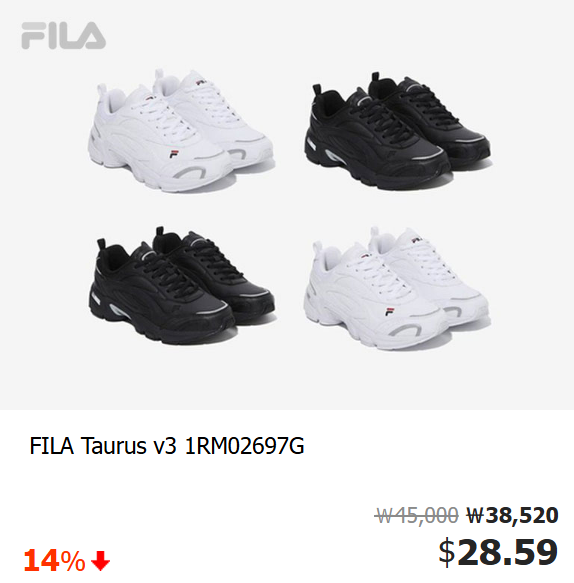
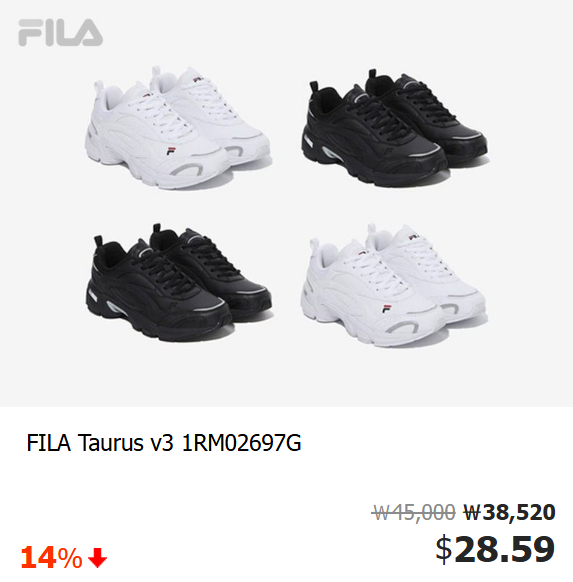
250820

diff --git a/0819/0819superdeal_dm_en.html b/0819/0819superdeal_dm_en.html
@@ -58,7 +58,7 @@
 		      </tr>
 			  <!--쿠폰-->
               <tr>
-				  <td valign="top" class="bl"><img style="vertical-align:top;"  src="https://gi.esmplus.com/test4glob/1/2025-08-19/en_mainboard.png" width="800" usemap="#deal01" border="0"></td>
+				  <td valign="top" class="bl"><img style="vertical-align:top;"  src="https://gi.esmplus.com/test4glob/1/2025-08-19/en_mainboard3.png" width="800" usemap="#deal01" border="0"></td>
 		      </tr>
 			  <!--//쿠폰-->
 			  <!--See all btn-->
@@ -68,13 +68,13 @@
 			   <!--//See all btn-->
 			  <!--배너-->
 			  <tr>
-				  <td style="vertical-align:top;" class="bl"><a href="https://glrpp.gmarket.co.kr/289006?charset=enUS" target="_blank"><img style="vertical-align:top;"  src="https://gi.esmplus.com/test4glob/1/2025-08-19/0819_dm_en_promotion_1.png" width="800"></a></td>
+				  <td style="vertical-align:top;" class="bl"><a href="https://glrpp.gmarket.co.kr/289006?charset=enUS" target="_blank"><img style="vertical-align:top;"  src="https://gi.esmplus.com/test4glob/1/2025-08-19/0819_dm_en_promotion_1_1.png" width="800"></a></td>
 		     </tr>
 			 <tr>
 				  <td style="vertical-align:top;" class="bl"><a href="https://glrpp.gmarket.co.kr/294005?charset=enUS" target="_blank"><img style="vertical-align:top;"  src="https://gi.esmplus.com/test4glob/1/2025-08-19/0819_dm_en_promotion_2.png" width="800"></a></td>
 		     </tr>
             <tr>
-				  <td style="vertical-align:top;" class="bl"><a href="https://glrpp.gmarket.co.kr/291006?charset=enUS" target="_blank"><img style="vertical-align:top;"  src="https://gi.esmplus.com/test4glob/1/2025-08-19/0819_dm_en_promotion_3.png" width="800"></a></td>
+				  <td style="vertical-align:top;" class="bl"><a href="https://glrpp.gmarket.co.kr/291006?charset=enUS" target="_blank"><img style="vertical-align:top;"  src="https://gi.esmplus.com/test4glob/1/2025-08-19/0819_dm_en_promotion_3_1.png" width="800"></a></td>
 		     </tr>
 			 <!-- <tr>
 				  <td style="vertical-align:top;" class="bl"><a href="https://glrpp.gmarket.co.kr/291006?charset=enUS" target="_blank"><img style="vertical-align:top;"  src="https://ai.esmplus.com/tsiac/0804/0808/dm/en/en08.jpg" width="800"></a></td>
